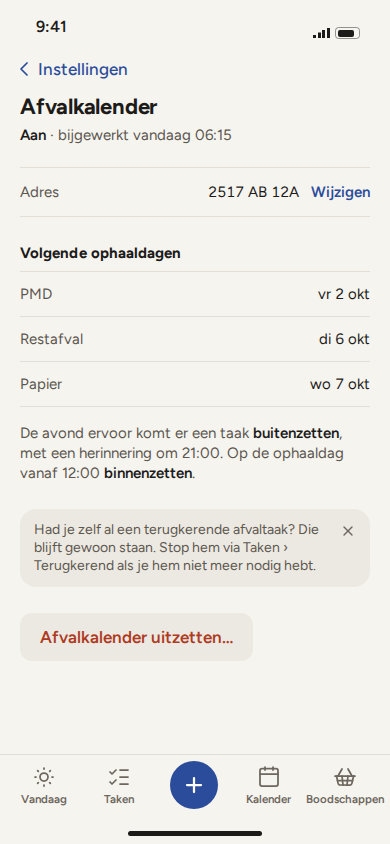
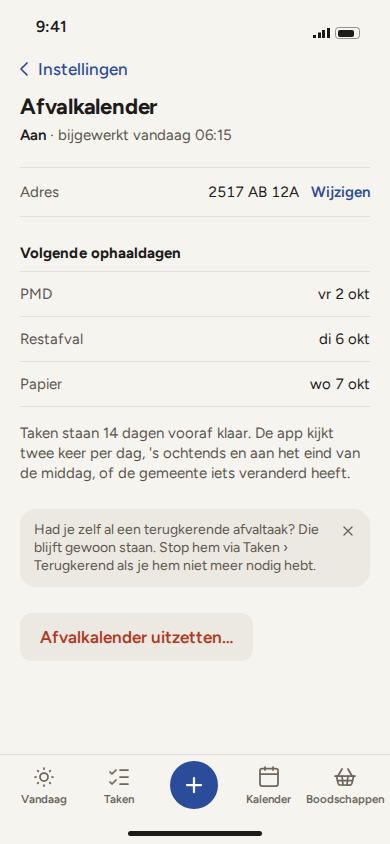
W-03: visueel prototype (tussenstand)
Claude-Session: https://claude.ai/code/session_01WXgN2KAqhzPZRNUJQnq1N3

Changed region(s): [[0.0308, 0.4929, 0.9231, 0.5853]]

diff --git a/docs/prototype/w03/07-storing-leeg-te-snel.html b/docs/prototype/w03/07-storing-leeg-te-snel.html
@@ -1,6 +1,6 @@
 <!doctype html>
 <html lang="nl"><head><meta charset="utf-8"><meta name="viewport" content="width=device-width,initial-scale=1">
-<title>Instellingen › Afvalkalender — storing H1, na "nog steeds fout"</title>
+<title>Instellingen › Afvalkalender — storing H2 (leeg), na "te snel"</title>
 <link rel="stylesheet" href="ds.css"><link rel="stylesheet" href="w03.css"></head>
 <body>
 <div class="phone" data-tab="">
@@ -8,16 +8,16 @@
   <header class="subhead">
     <a class="back" href="#"><i data-ic="chevl"></i>Instellingen</a>
     <h1 class="t-title">Afvalkalender</h1>
-    <div class="sub"><b>Aan</b> · laatst bijgewerkt za 26 sep 06:15</div>
+    <div class="sub"><b>Aan</b> · laatst bijgewerkt ma 12 okt 17:00</div>
   </header>
 
   <main>
     <div class="notice" role="status">
       <i data-ic="alert" class="sm"></i>
       <div>
-        <div class="nt">Niet bijgewerkt sinds za 26 sep</div>
-        <div class="nb">Het lukt de app al een tijd niet om de ophaaldagen bij de gemeente op te halen. De taken die er staan, blijven staan; nieuwe ophaaldagen komen er pas bij als het weer lukt. Kijk tot die tijd zelf op huisvuilkalender.denhaag.nl.</div>
-        <div class="nr">Opnieuw geprobeerd om 14:32. Het lukt nog steeds niet.</div>
+        <div class="nt">Geen ophaaldagen voor de komende twee weken</div>
+        <div class="nb">De gemeente geeft voor de komende twee weken geen enkele ophaaldag. Dat is ongebruikelijk. De taken die er staan, blijven staan. Kijk tot die tijd zelf op huisvuilkalender.denhaag.nl.</div>
+        <div class="nr">Net geprobeerd. Probeer het over een minuut opnieuw.</div>
       </div>
       <span></span>
       <button class="btn text">Opnieuw proberen</button>
@@ -27,11 +27,11 @@
       <div class="irow addr"><span class="k">Adres</span><span class="v num">2517 AB 12A <a class="btn text" href="#" aria-label="Adres wijzigen">Wijzigen</a></span></div>
     </div>
 
-    <h2 class="t-sec h-sec">Volgende ophaaldagen <span style="color:var(--text-3);font-weight:500">· stand za 26 sep</span></h2>
+    <h2 class="t-sec h-sec">Volgende ophaaldagen <span style="color:var(--text-3);font-weight:500">· stand ma 12 okt</span></h2>
     <div class="ilist page">
-      <div class="irow"><span class="k">PMD</span><span class="v num">vr 2 okt</span></div>
-      <div class="irow"><span class="k">Restafval</span><span class="v num">di 6 okt</span></div>
-      <div class="irow"><span class="k">Papier</span><span class="v num">wo 7 okt</span></div>
+      <div class="irow"><span class="k">Restafval</span><span class="v"><span class="muted">nog geen ophaaldag bekend</span></span></div>
+      <div class="irow"><span class="k">Papier</span><span class="v"><span class="muted">nog geen ophaaldag bekend</span></span></div>
+      <div class="irow"><span class="k">PMD</span><span class="v"><span class="muted">nog geen ophaaldag bekend</span></span></div>
     </div>
 
     <div style="margin-top:26px"><button class="btn dq">Afvalkalender uitzetten…</button></div>

diff --git a/docs/prototype/w03/08-storing-adres-weg.html b/docs/prototype/w03/08-storing-adres-weg.html
@@ -1,6 +1,6 @@
 <!doctype html>
 <html lang="nl"><head><meta charset="utf-8"><meta name="viewport" content="width=device-width,initial-scale=1">
-<title>Instellingen › Afvalkalender — aan (G)</title>
+<title>Instellingen › Afvalkalender — storing H3 (adres niet meer gevonden)</title>
 <link rel="stylesheet" href="ds.css"><link rel="stylesheet" href="w03.css"></head>
 <body>
 <div class="phone" data-tab="">
@@ -8,25 +8,32 @@
   <header class="subhead">
     <a class="back" href="#"><i data-ic="chevl"></i>Instellingen</a>
     <h1 class="t-title">Afvalkalender</h1>
-    <div class="sub"><b>Aan</b> · bijgewerkt vandaag 06:15</div>
+    <div class="sub"><b>Aan</b> · laatst bijgewerkt za 26 sep 06:15</div>
   </header>
 
   <main>
+    <div class="notice" role="status">
+      <i data-ic="alert" class="sm"></i>
+      <div>
+        <div class="nt">Adres niet meer gevonden</div>
+        <div class="nb">De huisvuilkalender van de gemeente kent <span class="num nowrap">2517 AB 12A</span> niet meer. Controleer het adres. Tot die tijd komen er geen nieuwe ophaaldagen bij; de taken die er staan, blijven staan.</div>
+      </div>
+      <span></span>
+      <div class="acts">
+        <button class="btn text">Adres controleren</button>
+        <button class="btn text">Opnieuw proberen</button>
+      </div>
+    </div>
+
     <div class="ilist page" style="margin-top:22px">
       <div class="irow addr"><span class="k">Adres</span><span class="v num">2517 AB 12A <a class="btn text" href="#" aria-label="Adres wijzigen">Wijzigen</a></span></div>
     </div>
 
-    <h2 class="t-sec h-sec">Volgende ophaaldagen</h2>
+    <h2 class="t-sec h-sec">Volgende ophaaldagen <span style="color:var(--text-3);font-weight:500">· stand za 26 sep</span></h2>
     <div class="ilist page">
       <div class="irow"><span class="k">PMD</span><span class="v num">vr 2 okt</span></div>
       <div class="irow"><span class="k">Restafval</span><span class="v num">di 6 okt</span></div>
       <div class="irow"><span class="k">Papier</span><span class="v num">wo 7 okt</span></div>
-    </div>
-    <p class="para">Taken staan 14 dagen vooraf klaar. De app kijkt twee keer per dag, 's ochtends en aan het eind van de middag, of de gemeente iets veranderd heeft.</p>
-
-    <div class="tip" role="note">
-      Had je zelf al een terugkerende afvaltaak? Die blijft gewoon staan. Stop hem via Taken › Terugkerend als je hem niet meer nodig hebt.
-      <button class="x" aria-label="Tip sluiten"><i data-ic="x" class="sm"></i></button>
     </div>
 
     <div style="margin-top:26px"><button class="btn dq">Afvalkalender uitzetten…</button></div>

diff --git a/docs/prototype/w03/09-nog-geen-ophaaldagen.html b/docs/prototype/w03/09-nog-geen-ophaaldagen.html
@@ -1,6 +1,6 @@
 <!doctype html>
 <html lang="nl"><head><meta charset="utf-8"><meta name="viewport" content="width=device-width,initial-scale=1">
-<title>Instellingen › Afvalkalender — leeg met formulier (A)</title>
+<title>Instellingen › Afvalkalender — F2, nog geen komende ophaaldagen (2 januari)</title>
 <link rel="stylesheet" href="ds.css"><link rel="stylesheet" href="w03.css"></head>
 <body>
 <div class="phone" data-tab="">
@@ -11,13 +11,15 @@
   </header>
 
   <main>
-    <p class="para" style="margin-top:8px">De app leest de huisvuilkalender van Den Haag en zet voor restafval, papier en PMD zelf de taken klaar: de avond ervoor <b>buitenzetten</b>, op de ophaaldag <b>binnenzetten</b>.</p>
+    <div class="notice nobtn" role="status">
+      <i data-ic="alert" class="sm"></i>
+      <div class="solo">De gemeente heeft nog geen ophaaldagen voor de komende weken online gezet. De kalender van het nieuwe jaar komt meestal rond de jaarwisseling online. Er is niets opgeslagen. Probeer het over een paar dagen opnieuw.</div>
+    </div>
 
     <form class="addr-grid" onsubmit="return false">
       <div>
         <label class="field-l" for="pc">Postcode</label>
-        <div class="input err"><span class="val num">2517 A</span></div>
-        <div class="help err"><i data-ic="alert" class="sm"></i>Vul een postcode in zoals 2517 AB</div>
+        <div class="input"><span class="val num">2517 AB</span></div>
       </div>
       <div>
         <label class="field-l" for="hn">Huisnummer</label>
@@ -25,7 +27,7 @@
       </div>
       <div class="suffix">
         <label class="field-l" for="tv">Toevoeging (optioneel)</label>
-        <div class="input"><span class="ph">A of 2</span></div>
+        <div class="input"><span class="val num">A</span></div>
       </div>
     </form>
 

diff --git a/docs/prototype/w03/11-instellingen-hapering.html b/docs/prototype/w03/11-instellingen-hapering.html
@@ -1,6 +1,6 @@
 <!doctype html>
 <html lang="nl"><head><meta charset="utf-8"><meta name="viewport" content="width=device-width,initial-scale=1">
-<title>Instellingen › Afvalkalender — aan (G)</title>
+<title>Instellingen › Afvalkalender — G′ (hapering) met een bak zonder datum</title>
 <link rel="stylesheet" href="ds.css"><link rel="stylesheet" href="w03.css"></head>
 <body>
 <div class="phone" data-tab="">
@@ -9,6 +9,7 @@
     <a class="back" href="#"><i data-ic="chevl"></i>Instellingen</a>
     <h1 class="t-title">Afvalkalender</h1>
     <div class="sub"><b>Aan</b> · bijgewerkt vandaag 06:15</div>
+    <p class="quiet">De laatste poging lukte niet. De app probeert het elk uur opnieuw.</p>
   </header>
 
   <main>
@@ -20,14 +21,9 @@
     <div class="ilist page">
       <div class="irow"><span class="k">PMD</span><span class="v num">vr 2 okt</span></div>
       <div class="irow"><span class="k">Restafval</span><span class="v num">di 6 okt</span></div>
-      <div class="irow"><span class="k">Papier</span><span class="v num">wo 7 okt</span></div>
+      <div class="irow"><span class="k">Papier</span><span class="v"><span class="muted">nog geen ophaaldag bekend</span></span></div>
     </div>
     <p class="para">Taken staan 14 dagen vooraf klaar. De app kijkt twee keer per dag, 's ochtends en aan het eind van de middag, of de gemeente iets veranderd heeft.</p>
-
-    <div class="tip" role="note">
-      Had je zelf al een terugkerende afvaltaak? Die blijft gewoon staan. Stop hem via Taken › Terugkerend als je hem niet meer nodig hebt.
-      <button class="x" aria-label="Tip sluiten"><i data-ic="x" class="sm"></i></button>
-    </div>
 
     <div style="margin-top:26px"><button class="btn dq">Afvalkalender uitzetten…</button></div>
   </main>

diff --git a/docs/prototype/w03/10-adres-onbekend.html b/docs/prototype/w03/10-adres-onbekend.html
@@ -1,6 +1,6 @@
 <!doctype html>
 <html lang="nl"><head><meta charset="utf-8"><meta name="viewport" content="width=device-width,initial-scale=1">
-<title>Instellingen › Afvalkalender — leeg met formulier (A)</title>
+<title>Instellingen › Afvalkalender — D, adres onbekend</title>
 <link rel="stylesheet" href="ds.css"><link rel="stylesheet" href="w03.css"></head>
 <body>
 <div class="phone" data-tab="">
@@ -13,15 +13,19 @@
   <main>
     <p class="para" style="margin-top:8px">De app leest de huisvuilkalender van Den Haag en zet voor restafval, papier en PMD zelf de taken klaar: de avond ervoor <b>buitenzetten</b>, op de ophaaldag <b>binnenzetten</b>.</p>
 
+    <div class="formerr" role="alert">
+      <i data-ic="alert" class="sm"></i>
+      <span>Dit adres staat niet in de huisvuilkalender van Den Haag. Controleer postcode en huisnummer. De afvalkalender werkt alleen voor adressen in Den Haag.</span>
+    </div>
+
     <form class="addr-grid" onsubmit="return false">
       <div>
         <label class="field-l" for="pc">Postcode</label>
-        <div class="input err"><span class="val num">2517 A</span></div>
-        <div class="help err"><i data-ic="alert" class="sm"></i>Vul een postcode in zoals 2517 AB</div>
+        <div class="input"><span class="val num">2288 GH</span></div>
       </div>
       <div>
         <label class="field-l" for="hn">Huisnummer</label>
-        <div class="input"><span class="val num">12</span></div>
+        <div class="input"><span class="val num">5</span></div>
       </div>
       <div class="suffix">
         <label class="field-l" for="tv">Toevoeging (optioneel)</label>

diff --git a/docs/prototype/w03/w03.css b/docs/prototype/w03/w03.css
@@ -42,3 +42,23 @@
 .addr-grid { display: grid; grid-template-columns: 3fr 2fr; gap: 16px 12px; margin-top: 22px; }
 .addr-grid .suffix { grid-column: 1; }
 .input .val { letter-spacing: .02em; }
+
+/* Ronde 2 (UX §13 r3) */
+/* Resultaatregel in balk H: T-78 (nog steeds fout) en T-79 (te snel). Geen toast. */
+.notice .nr { margin-top: 8px; font-size: 14px; line-height: 18px; font-weight: 500; color: var(--text-2); }
+/* H3: twee tekstknoppen naast elkaar, links uitgelijnd met de tekst */
+.notice .acts { display: flex; gap: 8px; margin-left: -8px; }
+.notice .acts .btn.text { margin-left: 0; }
+/* F en F2: balk zonder titel en zonder knop (hoofdactie staat onder het formulier) */
+.notice.nobtn { padding-bottom: 12px; }
+.nowrap { white-space: nowrap; }
+.notice .nt { text-wrap: balance; }
+.subhead .quiet { text-wrap: pretty; }
+.notice .solo { font-size: 15px; line-height: 20px; color: var(--text); }
+/* Stille regel onder de kop (G′, G″): text-meta, text-3, geen icoon, geen knop */
+.subhead .quiet { margin-top: 4px; font-size: 14px; line-height: 18px; color: var(--text-3); }
+/* D: antwoord van de bron als regel boven de velden, overdue, zonder rand om de velden */
+.formerr { display: grid; grid-template-columns: 16px 1fr; column-gap: 6px; margin-top: 16px; font-size: 14px; line-height: 18px; font-weight: 500; color: var(--overdue); }
+.formerr > svg { margin-top: 1px; }
+.formerr + .addr-grid { margin-top: 16px; }
+.notice + .addr-grid { margin-top: 20px; }

diff --git a/docs/prototype/w03/02-klopt-dit.html b/docs/prototype/w03/02-klopt-dit.html
@@ -21,7 +21,7 @@
       <div class="irow"><span class="k">PMD</span><span class="v num">vr 2 okt</span></div>
     </div>
 
-    <p class="para">De avond ervoor staat er een taak <b>buitenzetten</b>, met een herinnering om 21:00. Op de ophaaldag vanaf 12:00 <b>binnenzetten</b>. Iedereen in het huishouden ziet de taken; het adres zien alleen beheerders.</p>
+    <p class="para">De avond vóór elke ophaaldag staat er een taak <b>buitenzetten</b>, met een herinnering om 21:00. Op de ophaaldag vanaf 12:00 een taak <b>binnenzetten</b>, met een herinnering om 18:00. Iedereen in het huishouden ziet de taken. Het adres zien alleen beheerders.</p>
 
     <div style="margin-top:28px">
       <button class="btn pri" style="width:100%">Ja, aanzetten</button>
